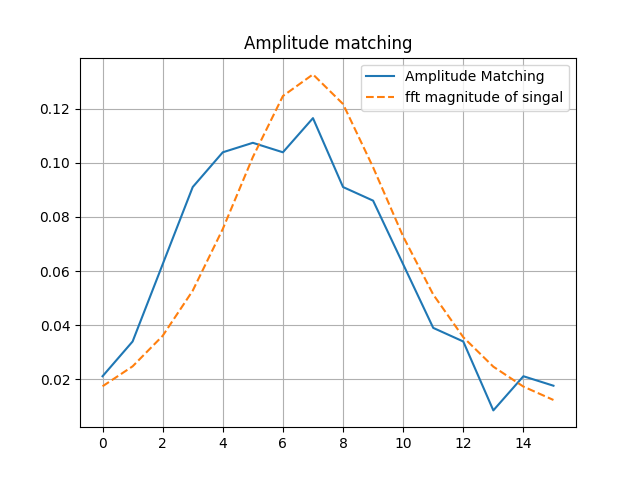
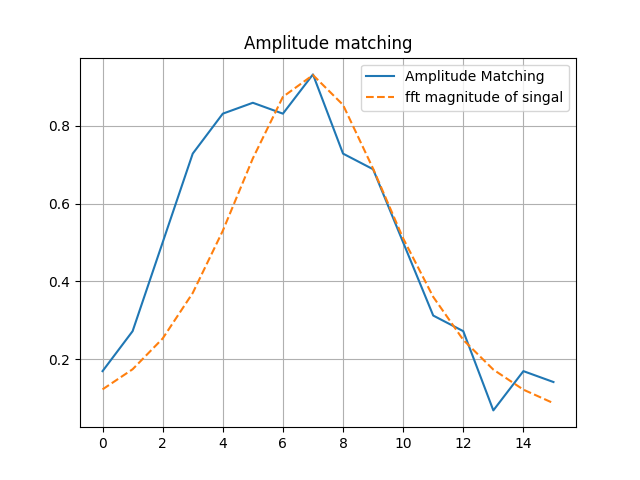
not normalizing

diff --git a/03matching_wavelet.py b/03matching_wavelet.py
@@ -67,7 +67,7 @@ def matching_wavelet(signal, N, l, T, delta_omega, P) :
 
     # make matrix W
     W = np.array(fft_magnitude[start_n: end_n+1]) # W.shape = (end_n - start_n + 1, 1)
-    W = W * 1/sum(W) # normalizeing W
+    W = W * 1/T 
 
     if end_n - start_n + 1 == W.shape[0] :
         print("Correspond the size of W")
@@ -90,7 +90,7 @@ def matching_wavelet(signal, N, l, T, delta_omega, P) :
     Y2 = np.matmul(A_t, Y1)
     Y3 = np.ones(A.shape[0]) - 1/a * np.matmul(A, W)
     Y = 1/a * W + np.matmul(Y2, Y3)
-    Y = Y * 1/sum(Y)
+    # Y = Y * 1/sum(Y)
     return Y, W
 
 if __name__ == "__main__" :
